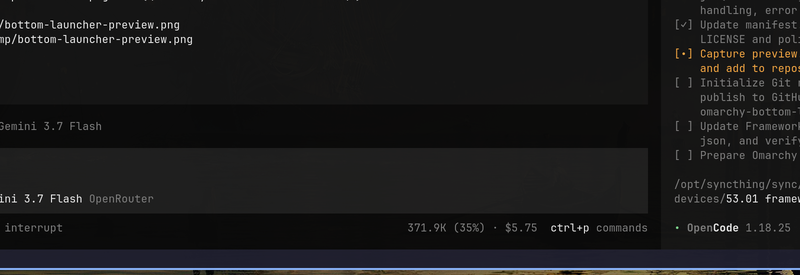
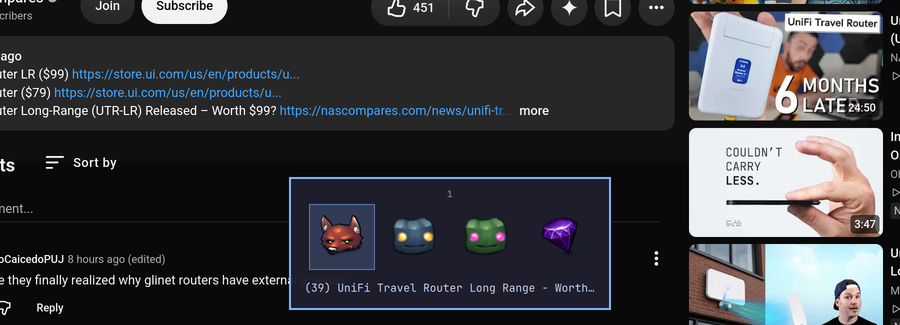
assets: update preview.png with live screenshot of bottom launcher

diff --git a/Service.qml b/Service.qml
@@ -132,6 +132,31 @@ Item {
         Hyprland.dispatch('hl.dsp.focus({ window = "address:' + addr + '" })');
     }
 
+    // IPC handler for external control and screenshot capture
+    IpcHandler {
+        target: "bottom-launcher"
+        function open(): string {
+            root.openedViaKeyboard = false;
+            root.requestOpen();
+            return "ok";
+        }
+        function close(): string {
+            root.open = false;
+            return "ok";
+        }
+        function toggle(): string {
+            if (root.open) root.open = false;
+            else {
+                root.openedViaKeyboard = false;
+                root.requestOpen();
+            }
+            return "ok";
+        }
+        function ping(): string {
+            return "ok";
+        }
+    }
+
     // Global Shortcuts for Alt+Tab / Alt+Shift+Tab
     GlobalShortcut {
         appid: "omarchy-bottom-launcher"
